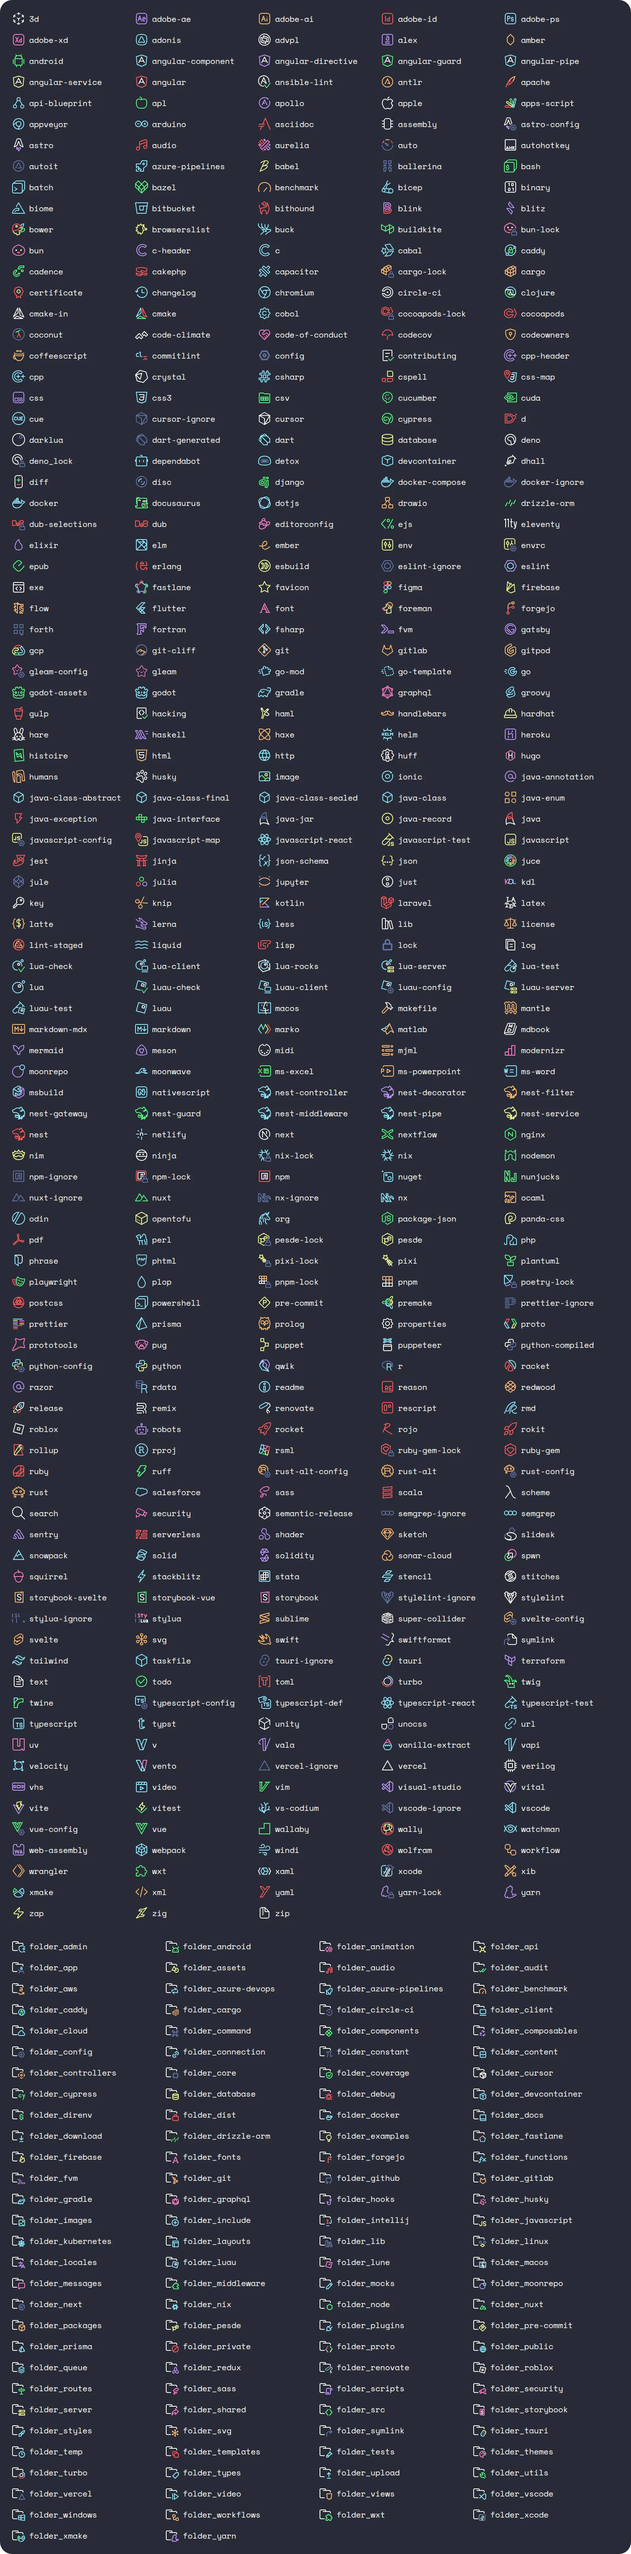
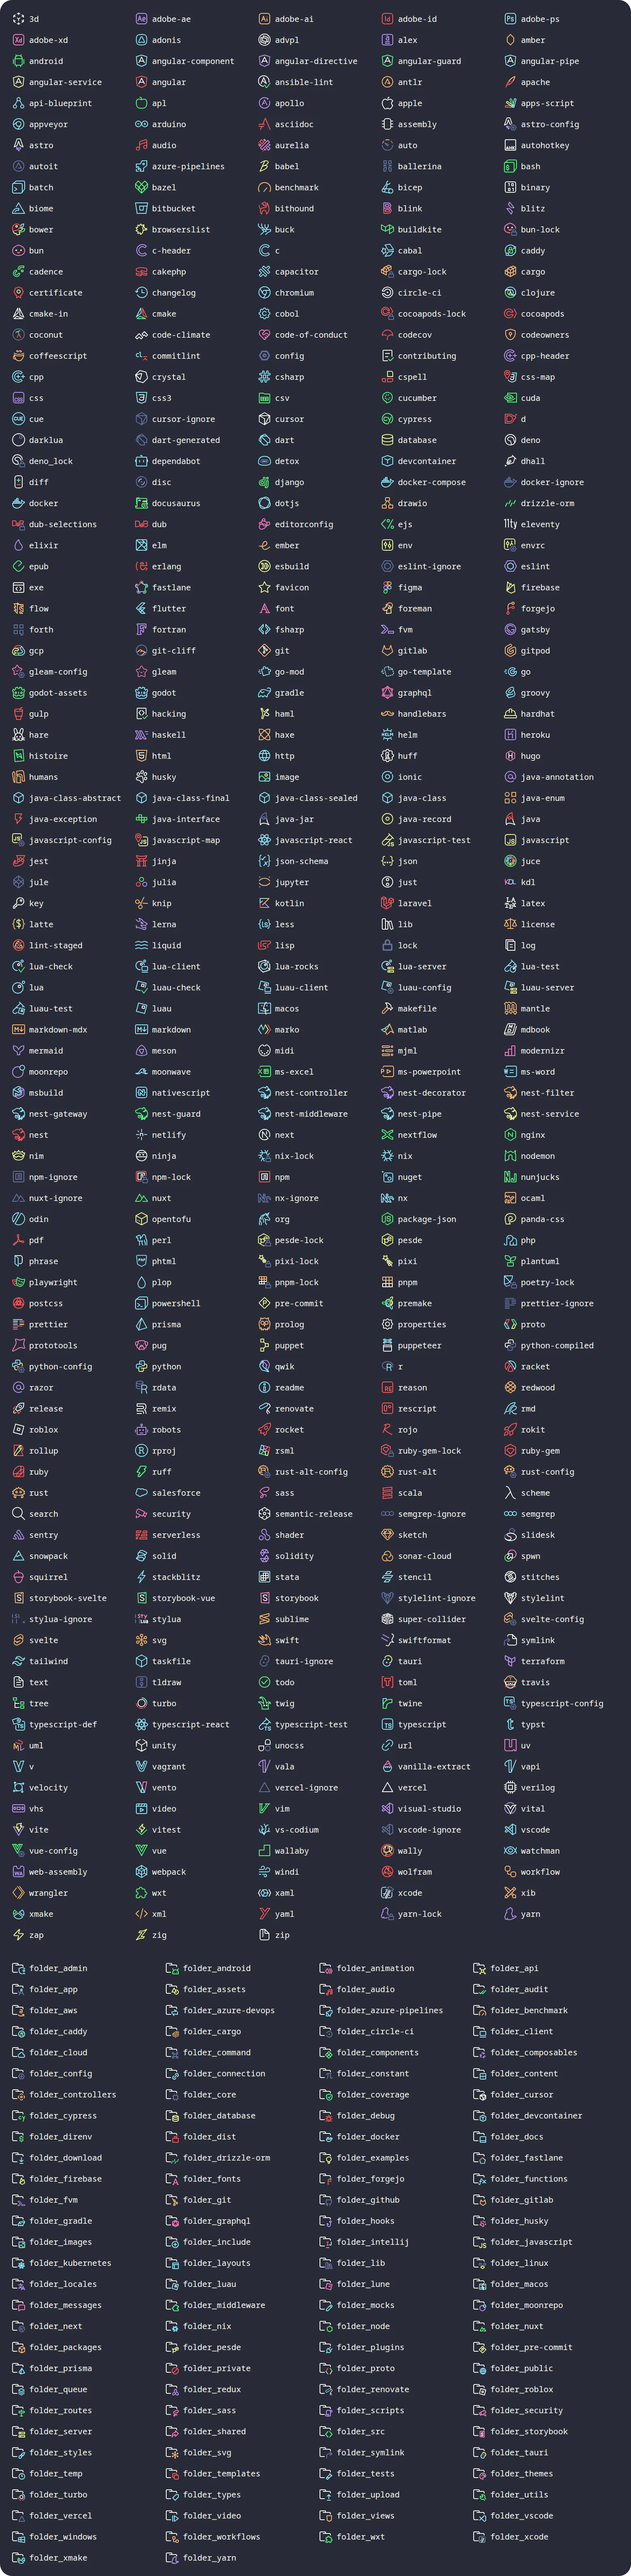
+5 iconos 7.

diff --git a/src/defaults/fileIcons.ts b/src/defaults/fileIcons.ts
@@ -2732,6 +2732,9 @@ const fileIcons: FileIcons = {
     languageIds: ['plaintext'],
     fileExtensions: ['txt'],
   },
+  'tldraw': {
+    fileExtensions: ['tldr'],
+  },
   'todo': {
     fileExtensions: ['todo'],
     fileNames: [
@@ -2742,6 +2745,12 @@ const fileIcons: FileIcons = {
   'toml': {
     languageIds: ['toml'],
     fileExtensions: ['toml'],
+  },
+  'travis': {
+    fileNames: ['.travis.yml'],
+  },
+  'tree': {
+    fileExtensions: ['tree'],
   },
   'turbo': {
     fileNames: [
@@ -2841,6 +2850,15 @@ const fileIcons: FileIcons = {
     fileExtensions: ['typ'],
     fileNames: ['typst.toml'],
   },
+  'uml': {
+    fileExtensions: [
+      'iuml',
+      'pu',
+      'puml',
+      'plantuml',
+      'wsd',
+    ],
+  },
   'unity': {
     languageIds: ['shaderlab'],
     fileExtensions: ['unity'],
@@ -2870,6 +2888,9 @@ const fileIcons: FileIcons = {
       'vpkg.json',
       'v.mod',
     ],
+  },
+  'vagrant': {
+    fileExtensions: ['vagrantfile'],
   },
   'vala': {
     languageIds: ['vala'],
